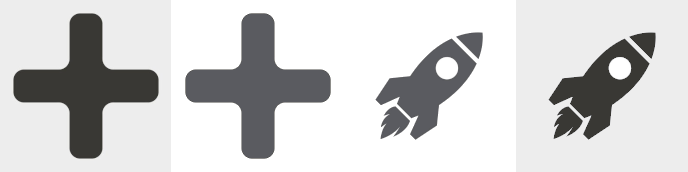
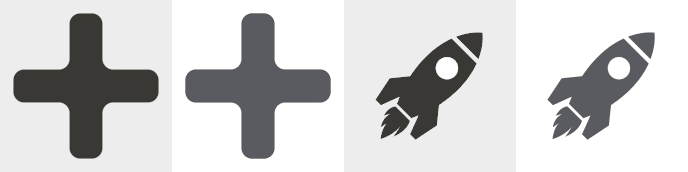
Button: Simplify event handling

Changed region(s): [[0.7936, 0.1744, 0.9767, 0.814], [0.5494, 0.1744, 0.702, 0.814]]

diff --git a/src/gui/Button.cpp b/src/gui/Button.cpp
@@ -29,50 +29,30 @@ Button::Button(sf::Vector2f pos, sf::Image img, unsigned states, float scale){
 }
 
 // template<typename lambda>
-void Button::event_listener(sf::Event& event, EventListening mode){
-    auto mouse_pos = sf::Mouse::getPosition();
-
-    if(sf::Rect<float>(m_pos, m_size).contains(mouse_pos.x, mouse_pos.y)){
-        if(m_mode == 0)
-            m_mode = 1;
-        else if(m_mode == 2)
-            m_mode = 3;
-        switch (mode) {
-        case EventListening::ONCLICK:
-            if(event.type == sf::Event::MouseButtonPressed){
-                // expression();
-                if(!drag){
-                    if(m_mode == 1)
-                        m_mode = 2;
-                    else if(m_mode == 3)
-                        m_mode = 0;
-                    drag = 1;
-                }
-            }
-            break;
-        case EventListening::HOVER:
-                // expression();
-            break;
-        case EventListening::ONRELASE:
-            if(event.type == sf::Event::MouseButtonReleased){
-                // expression();
-                drag = 0;
-            }
-          break;
-        }
-        World::dragging = 0;
-    }else{
-        if(m_mode % 2 != 0)
-            m_mode--;
+void Button::event_listener(sf::Event& event){
+    if(event.type == sf::Event::MouseMoved) {
+        sf::Vector2i mouse_pos {event.mouseMove.x, event.mouseMove.y};
+        m_hover = is_mouse_over(mouse_pos);
+    }
+    
+    if(m_hover) {
+        if(event.type == sf::Event::MouseButtonReleased)
+            m_active = !m_active;
+        // FIXME: VERY HACKY REMOVE THAT ASAP
+        World::dragging = false;
     }
 }
 
 void Button::draw(sf::RenderWindow &window){
     sf::Sprite sprite;
-    sprite.setTexture(m_tex[m_mode]);
+    sprite.setTexture(m_tex[state_to_texture_index()]);
     sprite.setPosition(m_pos);
 
     sprite.setScale(sf::Vector2f(m_scale, m_scale));
 
     window.draw(sprite);
+}
+
+bool Button::is_mouse_over(sf::Vector2i mouse_pos) const {
+    return sf::Rect<float>(m_pos, m_size).contains(mouse_pos.x, mouse_pos.y);
 }

diff --git a/src/gui/GUI.cpp b/src/gui/GUI.cpp
@@ -37,7 +37,7 @@ m_text_1("", sf::IntRect(50, 400, 200, 30)){
 void GUI::draw(){
     m_create_button.draw(m_window);
 
-    if(m_create_button.m_mode >= 2){
+    if(m_create_button.is_active()){
         m_slider_1.draw(m_window);
         m_slider_2.draw(m_window);
         m_slider_3.draw(m_window);
@@ -46,10 +46,9 @@ void GUI::draw(){
 }
 
 void GUI::get_events(sf::Event &event){
-    m_create_button.event_listener(event, EventListening::ONCLICK);
-    m_create_button.event_listener(event, EventListening::ONRELASE);
+    m_create_button.event_listener(event);
 
-    if(m_create_button.m_mode >= 2){
+    if(m_create_button.is_active()){
         m_slider_1.get_events(event);
         m_slider_2.get_events(event);
         m_slider_3.get_events(event);

diff --git a/src/gui/Button.hpp b/src/gui/Button.hpp
@@ -12,13 +12,22 @@ class Button{
     std::vector<sf::Texture> m_tex;
     float m_scale;
     bool drag = false;
+
+    bool m_hover = false;
+    bool m_active = false;
+
+    int state_to_texture_index() const { return (m_active << 1) | m_hover; }
+    bool is_mouse_over(sf::Vector2i) const;
+
 public:
     Button(sf::Vector2f pos, sf::Image img, unsigned states, float scale);
     Button() = default;
-    unsigned m_mode = 0;
+
+    bool is_hover() const { return m_hover; }
+    bool is_active() const { return m_active; }
 
 // template<typename lambda>
-    void event_listener(sf::Event& event, EventListening mode);
+    void event_listener(sf::Event& event);
 
     void draw(sf::RenderWindow& window);
 };
